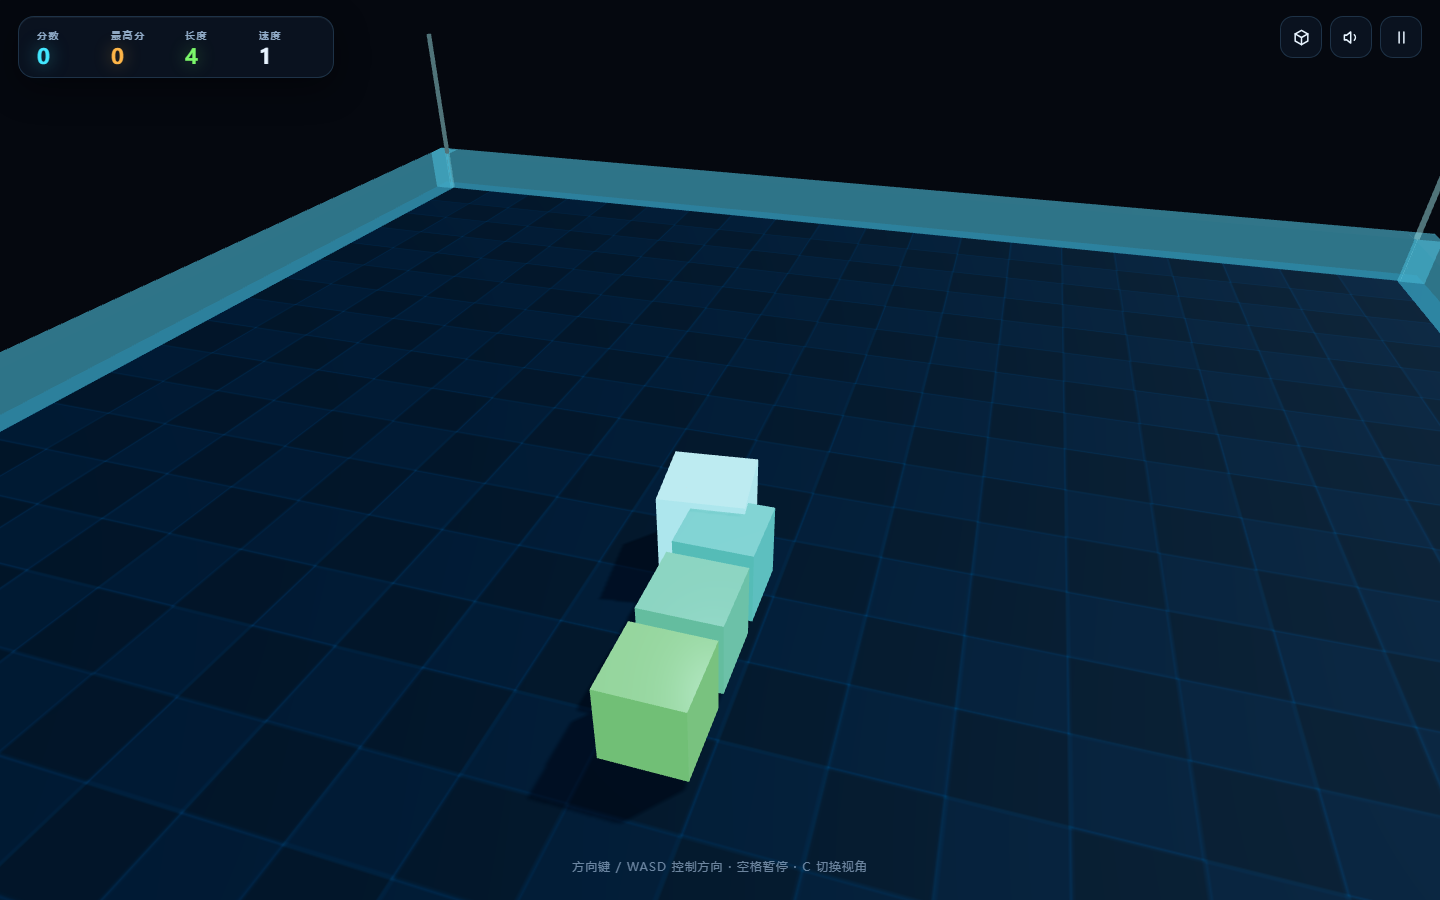
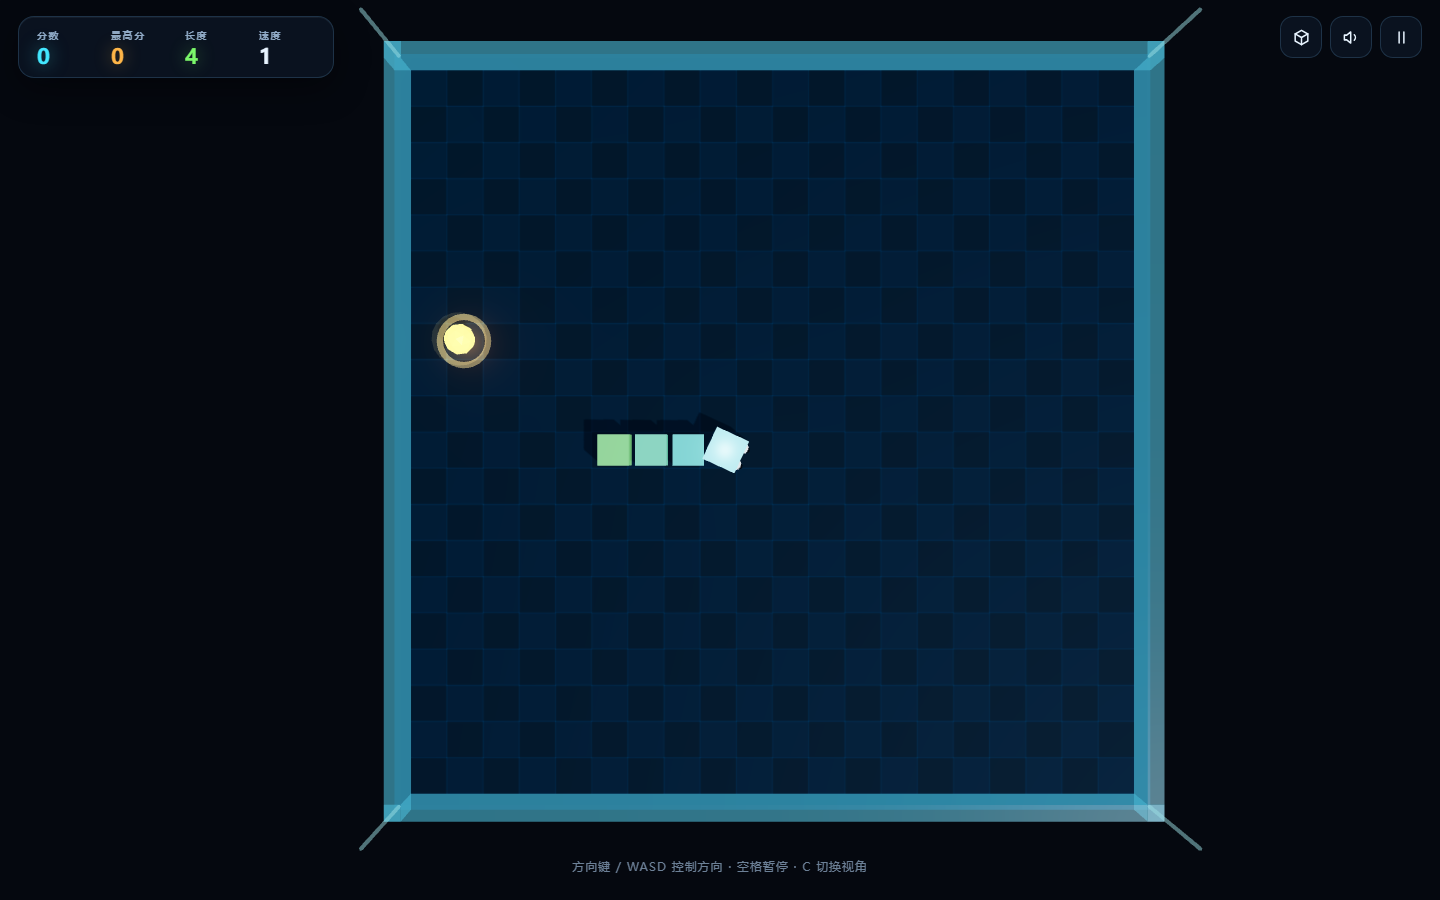
feat: 默认视角改为上帝视角
- camMode 默认 2（正俯视），C 键仍可切换 跟随/立体俯瞰/上帝视角
- 上帝视角高度按窗口比例自适应，极窄屏拉高保证棋盘完整可见（上限 44）
- 相机跟随蛇头但钳制范围，棋盘始终留在画面内
- 更新 README 游戏截图为新的默认视角

diff --git a/desktop/index.html b/desktop/index.html
@@ -271,7 +271,7 @@ let score = 0;
 let speedLevel = 1;
 let best = Number(localStorage.getItem('snake3d_best') || 0);
 let soundOn = localStorage.getItem('snake3d_sound') !== '0';
-let camMode = 0;              // 0 跟随 1 立体俯瞰 2 正俯视
+let camMode = 2;              // 0 跟随 1 立体俯瞰 2 上帝视角（默认）
 let deathShake = 0;
 
 /* ============================================================
@@ -771,6 +771,25 @@ function headWorldPos(t) {
   return new THREE.Vector3(x, 0.5, z);
 }
 
+// 上帝视角的相机高度：让棋盘（含边距）纵向刚好装进视野，极窄屏时拉高（上限 44）以保证横向也能看全
+function topDownHeight() {
+  const need = (HALF + 2.2) / Math.tan((camera.fov * Math.PI / 180) / 2);
+  const aspect = camera.aspect || 1;
+  return Math.min(44, Math.max(25.5, need / Math.min(aspect, 1)));
+}
+
+// 上帝视角机位：跟随蛇头，但钳制在"棋盘不出画"的范围内
+function topDownCamTarget(hp, h) {
+  const halfV = h * Math.tan((camera.fov * Math.PI / 180) / 2);
+  const halfH = halfV * (camera.aspect || 1);
+  // 可移动量 = 视野半宽 - 棋盘半宽 - 光带余量；棋盘装得下时锁中心，装不下时跟随蛇头
+  const slack = (s) => Math.max(0, Math.min(s - HALF - 0.6, HALF * 0.35));
+  return {
+    x: THREE.MathUtils.clamp(hp.x, -slack(halfH), slack(halfH)),
+    z: THREE.MathUtils.clamp(hp.z, -slack(halfV), slack(halfV))
+  };
+}
+
 function updateCamera(dt, t) {
   const hp = headWorldPos(t);
 
@@ -800,8 +819,11 @@ function updateCamera(dt, t) {
     camTargetPos.set(15.5, 18.5, 15.5);
     camTargetLook.set(0, 0.4, 0);
   } else {
-    camTargetPos.set(hp.x, 25.5, hp.z + 0.001);
-    camTargetLook.set(hp.x, 0, hp.z);
+    // 上帝视角：跟随蛇头的正俯视，相机位置钳制保证棋盘尽量完整留在画面内
+    const h = topDownHeight();
+    const c = topDownCamTarget(hp, h);
+    camTargetPos.set(c.x, h, c.z + 0.001);
+    camTargetLook.set(c.x, 0, c.z);
   }
 
   const follow = camMode === 0 ? (1 - Math.pow(0.0008, dt)) : (1 - Math.pow(0.004, dt));
@@ -820,10 +842,21 @@ function updateCamera(dt, t) {
 }
 
 function snapCamera() {
-  camYaw = dirYaw();
+  // 按当前视角模式一次性就位（开局/重开时避免从上一局的机位飞过来）
   const hp = headWorldPos(1);
-  camera.position.set(hp.x - Math.sin(camYaw) * 8.6, 6.6, hp.z - Math.cos(camYaw) * 8.6);
-  lookSmooth.set(hp.x, 0.5, hp.z);
+  if (camMode === 0) {
+    camYaw = dirYaw();
+    camera.position.set(hp.x - Math.sin(camYaw) * 8.6, 6.6, hp.z - Math.cos(camYaw) * 8.6);
+    lookSmooth.set(hp.x + Math.sin(camYaw) * 1.8, 0.55, hp.z + Math.cos(camYaw) * 1.8);
+  } else if (camMode === 1) {
+    camera.position.set(15.5, 18.5, 15.5);
+    lookSmooth.set(0, 0.4, 0);
+  } else {
+    const h = topDownHeight();
+    const c = topDownCamTarget(hp, h);
+    camera.position.set(c.x, h, c.z + 0.001);
+    lookSmooth.set(c.x, 0, c.z);
+  }
   camera.lookAt(lookSmooth);
 }
 

diff --git a/web/index.html b/web/index.html
@@ -271,7 +271,7 @@ let score = 0;
 let speedLevel = 1;
 let best = Number(localStorage.getItem('snake3d_best') || 0);
 let soundOn = localStorage.getItem('snake3d_sound') !== '0';
-let camMode = 0;              // 0 跟随 1 立体俯瞰 2 正俯视
+let camMode = 2;              // 0 跟随 1 立体俯瞰 2 上帝视角（默认）
 let deathShake = 0;
 
 /* ============================================================
@@ -771,6 +771,25 @@ function headWorldPos(t) {
   return new THREE.Vector3(x, 0.5, z);
 }
 
+// 上帝视角的相机高度：让棋盘（含边距）纵向刚好装进视野，极窄屏时拉高（上限 44）以保证横向也能看全
+function topDownHeight() {
+  const need = (HALF + 2.2) / Math.tan((camera.fov * Math.PI / 180) / 2);
+  const aspect = camera.aspect || 1;
+  return Math.min(44, Math.max(25.5, need / Math.min(aspect, 1)));
+}
+
+// 上帝视角机位：跟随蛇头，但钳制在"棋盘不出画"的范围内
+function topDownCamTarget(hp, h) {
+  const halfV = h * Math.tan((camera.fov * Math.PI / 180) / 2);
+  const halfH = halfV * (camera.aspect || 1);
+  // 可移动量 = 视野半宽 - 棋盘半宽 - 光带余量；棋盘装得下时锁中心，装不下时跟随蛇头
+  const slack = (s) => Math.max(0, Math.min(s - HALF - 0.6, HALF * 0.35));
+  return {
+    x: THREE.MathUtils.clamp(hp.x, -slack(halfH), slack(halfH)),
+    z: THREE.MathUtils.clamp(hp.z, -slack(halfV), slack(halfV))
+  };
+}
+
 function updateCamera(dt, t) {
   const hp = headWorldPos(t);
 
@@ -800,8 +819,11 @@ function updateCamera(dt, t) {
     camTargetPos.set(15.5, 18.5, 15.5);
     camTargetLook.set(0, 0.4, 0);
   } else {
-    camTargetPos.set(hp.x, 25.5, hp.z + 0.001);
-    camTargetLook.set(hp.x, 0, hp.z);
+    // 上帝视角：跟随蛇头的正俯视，相机位置钳制保证棋盘尽量完整留在画面内
+    const h = topDownHeight();
+    const c = topDownCamTarget(hp, h);
+    camTargetPos.set(c.x, h, c.z + 0.001);
+    camTargetLook.set(c.x, 0, c.z);
   }
 
   const follow = camMode === 0 ? (1 - Math.pow(0.0008, dt)) : (1 - Math.pow(0.004, dt));
@@ -820,10 +842,21 @@ function updateCamera(dt, t) {
 }
 
 function snapCamera() {
-  camYaw = dirYaw();
+  // 按当前视角模式一次性就位（开局/重开时避免从上一局的机位飞过来）
   const hp = headWorldPos(1);
-  camera.position.set(hp.x - Math.sin(camYaw) * 8.6, 6.6, hp.z - Math.cos(camYaw) * 8.6);
-  lookSmooth.set(hp.x, 0.5, hp.z);
+  if (camMode === 0) {
+    camYaw = dirYaw();
+    camera.position.set(hp.x - Math.sin(camYaw) * 8.6, 6.6, hp.z - Math.cos(camYaw) * 8.6);
+    lookSmooth.set(hp.x + Math.sin(camYaw) * 1.8, 0.55, hp.z + Math.cos(camYaw) * 1.8);
+  } else if (camMode === 1) {
+    camera.position.set(15.5, 18.5, 15.5);
+    lookSmooth.set(0, 0.4, 0);
+  } else {
+    const h = topDownHeight();
+    const c = topDownCamTarget(hp, h);
+    camera.position.set(c.x, h, c.z + 0.001);
+    lookSmooth.set(c.x, 0, c.z);
+  }
   camera.lookAt(lookSmooth);
 }
 
